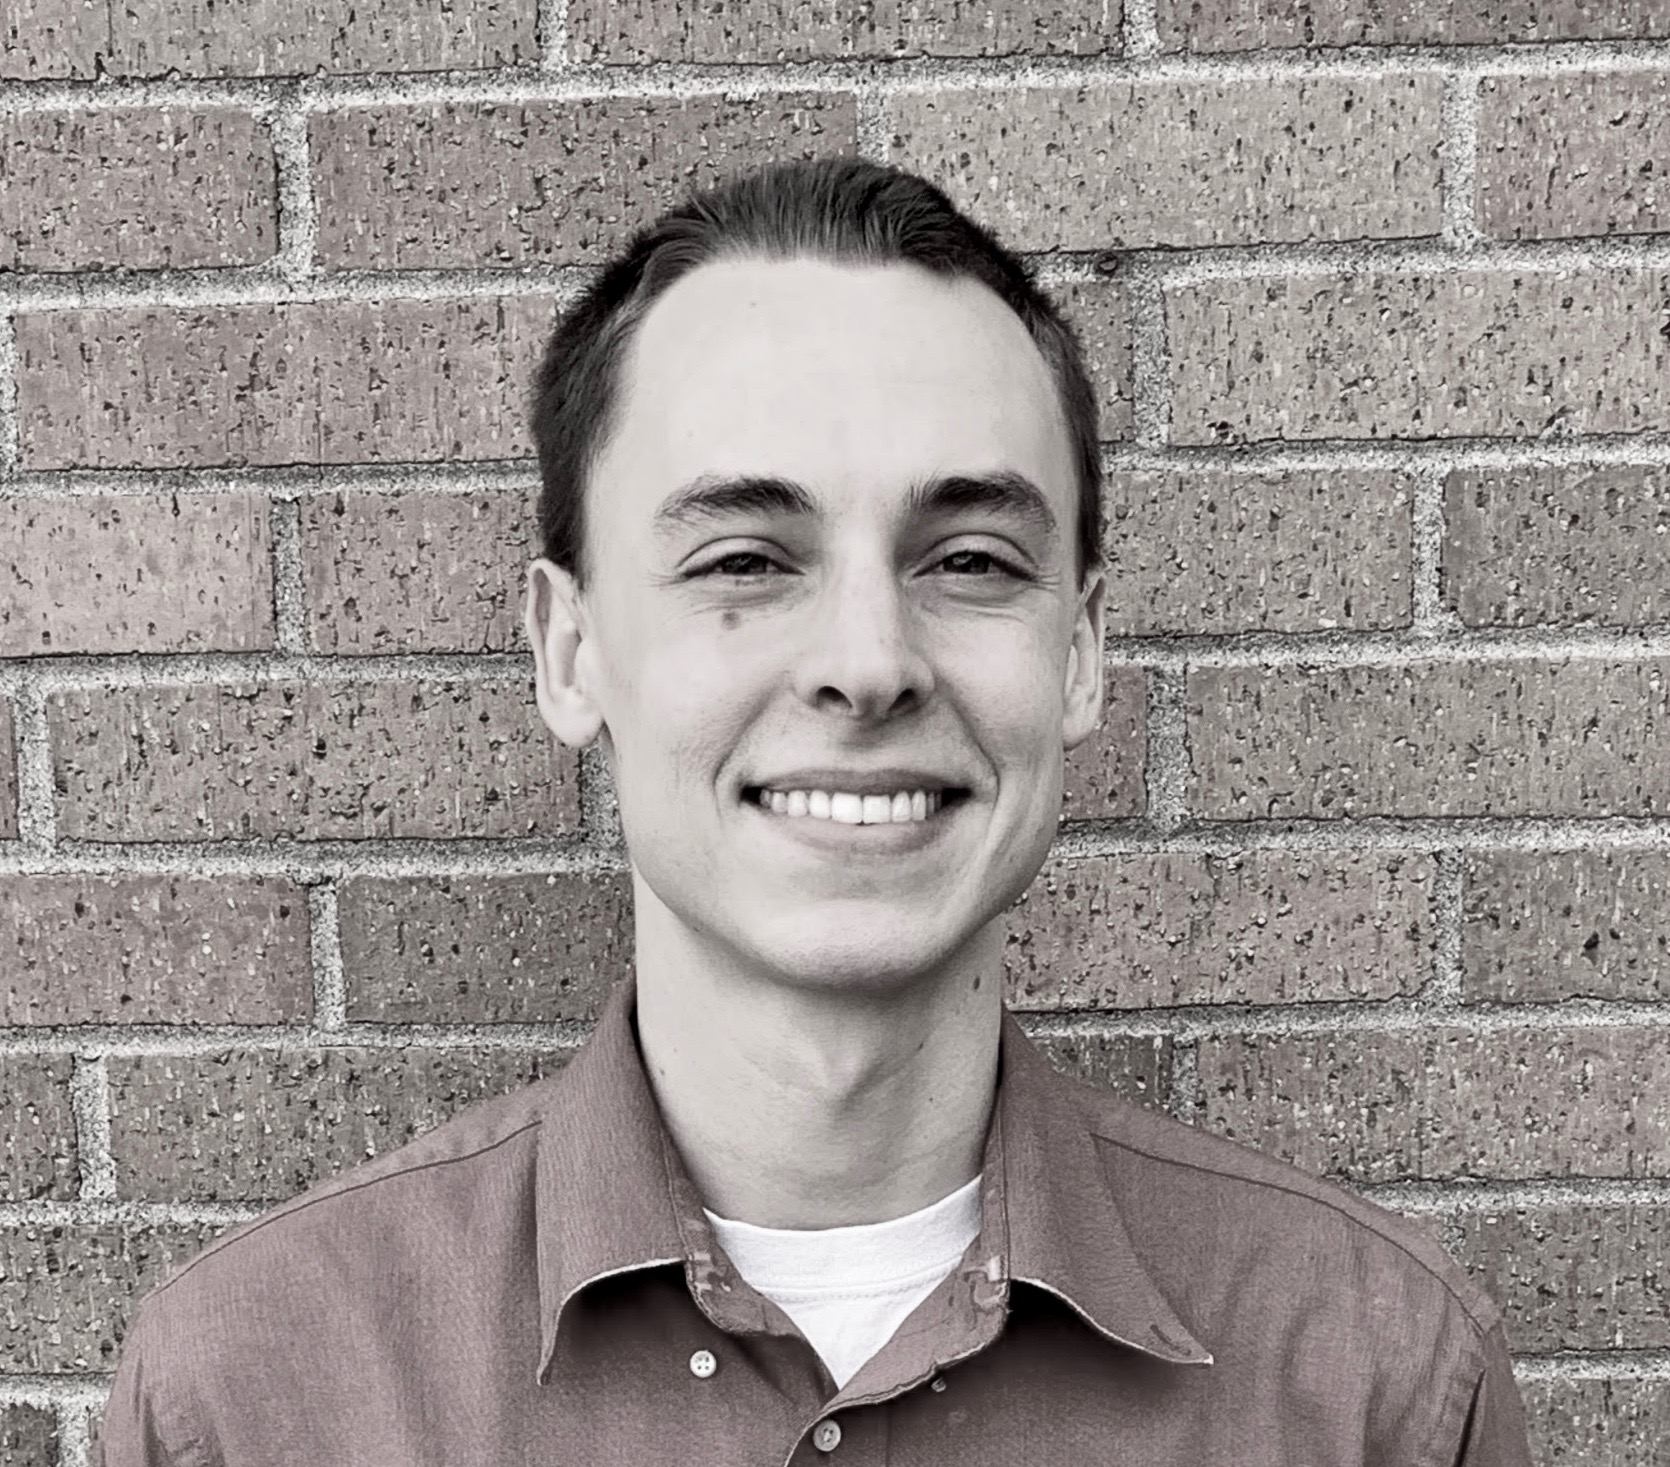
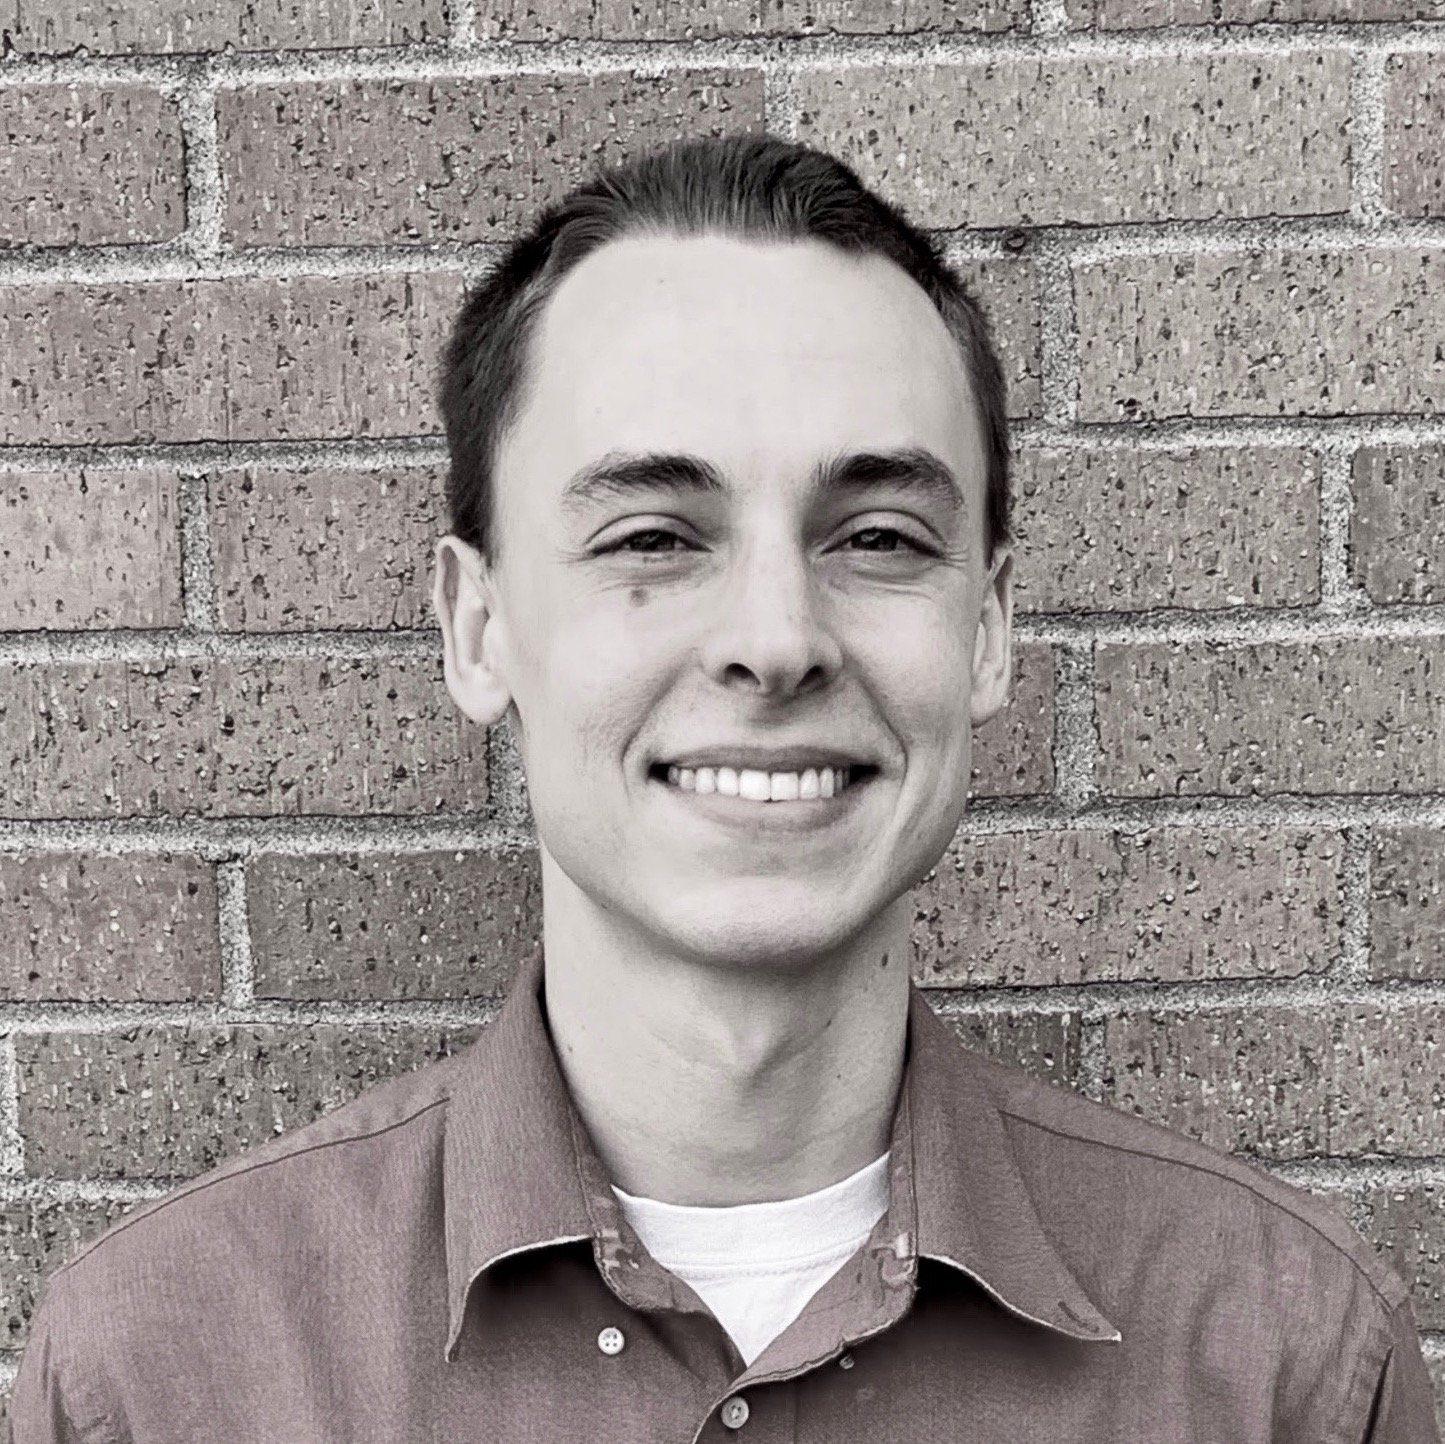
edited about page, sidebar, personal pic

diff --git a/_includes/sidebar.html b/_includes/sidebar.html
@@ -2,11 +2,11 @@
   <div class="container sidebar-sticky">
     <div class="sidebar-about">
       <img class="profile-pic" src="{{ site.baseurl }}public/me.jpg" alt="brandon's face" />
-      <h2>
+      <h1>
         <a href="{{ site.baseurl }}">
           {{ site.title }}
         </a>
-      </h2>
+      </h1>
       <p class="lead">{{ site.description }}</p>
     </div>
 
@@ -27,15 +27,14 @@
         {% endif %}
       {% endfor %}
 
+      <a class="sidebar-nav-item" href="{{ site.baseurl }}tech-elevator-blog"><i class="fas fa-location-arrow"></i></i> coding bootcamp blog</a>
+      <a class="sidebar-nav-item" href="{{ site.baseurl }}public/brandonfannin_softwaredev.pdf" download><i class="far fa-file"></i> resume</a>
       <span class="icons-flex">
       <span class="sidebar-nav-item">Connect: </span>
-      <a class="sidebar-nav-item" href="mailto:b@brandonfannin.com?subject=My%20old%20friend&amp;body=I've%20come%20to%20talk%20with%20you%20again"><i class="fas fa-envelope-square"></i></a>
-      <a class="sidebar-nav-item" href="https://www.linkedin.com/in/brandon-fannin/"><i class="fab fa-linkedin"></i></a>
-      <a class="sidebar-nav-item" href="https://github.com/beefan"><i class="fab fa-github-square"></i></a>
+      <a class="sidebar-nav-item icon" href="mailto:b@brandonfannin.com?subject=My%20old%20friend&amp;body=I've%20come%20to%20talk%20with%20you%20again"><i class="fas fa-envelope-square"></i></a>
+      <a class="sidebar-nav-item icon" href="https://www.linkedin.com/in/brandon-fannin/"><i class="fab fa-linkedin"></i></a>
+      <a class="sidebar-nav-item icon" href="https://github.com/beefan"><i class="fab fa-github-square"></i></a>
       </span>
-      <a class="sidebar-nav-item" href="{{ site.baseurl }}public/brandonfannin_softwaredev.pdf" download><i class="far fa-file"></i> resume</a>
-      <a class="sidebar-nav-item" href="{{ site.baseurl }}tech-elevator-blog"><i class="fas fa-location-arrow"></i></i> coding bootcamp blog</a>
-
     </nav>
 
     <p>&copy; {{ site.time | date: '%Y' }}. All rights reserved.</p>

diff --git a/public/css/hyde.css b/public/css/hyde.css
@@ -29,7 +29,7 @@
  */
 
  .profile-pic {
-  max-height: 200px;
+  max-height: 150px;
   border: 5px solid white;
   border-radius: 50%;
  }
@@ -42,6 +42,10 @@
   white-space: nowrap;
   display: flex;
   justify-content: space-between;
+ }
+
+ .icon {
+  font-size: 5rem;
  }
 
 /*
@@ -202,7 +206,7 @@ a.sidebar-nav-item:focus {
 }
 .theme-base-08 .content a,
 .theme-base-08 .related-posts li a:hover {
-  color: #4d0749;
+  color: #72036c;
 }
 
 /* Orange */

diff --git a/_posts/2020-01-28-my-first-blog-post.md b/_posts/2020-01-28-my-first-blog-post.md
@@ -3,9 +3,10 @@ layout: post
 title: Hello, there! 
 ---
 ### Thanks for stopping by my personal landing page. 
-Through April 2020, I'll be completing a 14 week java bootcamp. I'm keeping a [blog](https://www.brandonfannin.com/tech-elevator-blog/) to document my journey. Check it out! 
+Through April 2020, I'll be completing a 14 week java bootcamp. I'm keeping a [blog](https://www.brandonfannin.com/tech-elevator-blog/) to document my journey.
 
+<p class="message">
 Very soon, I will be **seeking employment in a software development role.** My passion is learning, but my strengths are analytical and strategic thinking. Unfaltering grit in face of adversity. If this sounds like someone you want on your team, [connect](mailto:b@brandonfannin.com?subject=My%20old%20friend&amp;body=I've%20come%20to%20talk%20with%20you%20again) with me!
-
+</p>
 
   > "Leaders are not, as we are often led to think, people who go along with huge crowds following them. Leaders are people who go their own way without caring, or even looking to see, whether anyone is following them. " - John Holt

diff --git a/about.md b/about.md
@@ -4,17 +4,13 @@ title: About
 ---
 
 <p class="message">
-  I'm a new developer and this is my blog! 
+  Hey I'm Brandon Fannin.
 </p>
 
-I'm still *learning* markup. The theme I forked was made by [@mdo](https://twitter.com/mdo).
+## This is a place 
 
-There are currently two themes built on Poole:
-
-## Why you should read my blog
-
-* It's pretty awesome
-* I'll talk about my pets constantly 
-* My jokes are terrible
+* where I could type a detailed about
+* where I could place redundant information
+* where I could do virtually nothing
 
 Thanks for reading!
